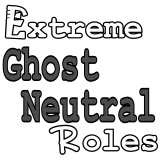
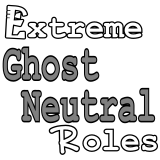
fix:colors

Changed region(s): [[0.125, 0.5312, 0.9688, 0.7812], [0.0, 0.2812, 0.625, 0.5]]

diff --git a/ExtremeRoles/Module/CustomMonoBehaviour/AbilityPart.cs b/ExtremeRoles/Module/CustomMonoBehaviour/AbilityPart.cs
@@ -223,7 +223,7 @@ namespace ExtremeRoles.Module.CustomMonoBehaviour
 			UnlockAllDollCrakingAbility(hypnotist, this.console);
 		}
 
-		protected override Color GetColor() => Palette.DisabledGrey;
+		protected override Color GetColor() => ColorPalette.NeutralColor;
 
 		protected override Sprite GetSprite() => Loader.CreateSpriteFromResources(
 			Path.HypnotistGrayAbilityPart);

diff --git a/ExtremeRoles/Roles/Combination/Avalon.cs b/ExtremeRoles/Roles/Combination/Avalon.cs
@@ -269,7 +269,7 @@ namespace ExtremeRoles.Roles.Combination
             }
             else if (targetRole.IsNeutral() && this.CanSeeNeutral)
             {
-                return Palette.DisabledGrey;
+                return ColorPalette.NeutralColor;
             }
 
             return base.GetTargetRoleSeeColor(targetRole, targetPlayerId);
